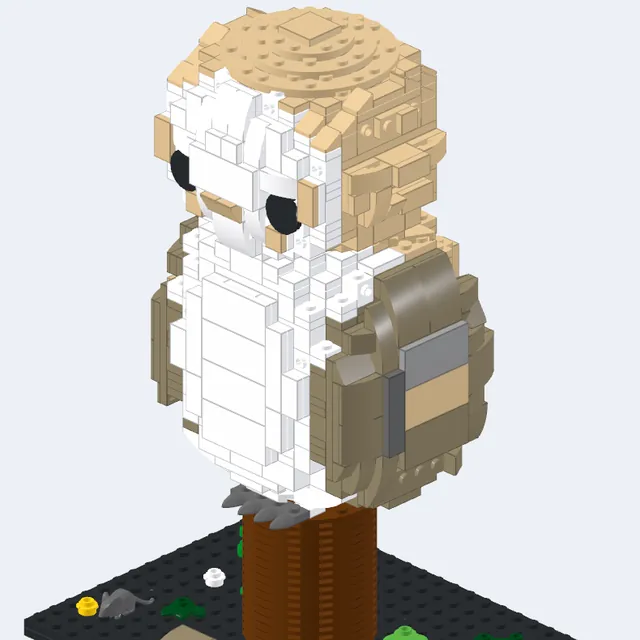
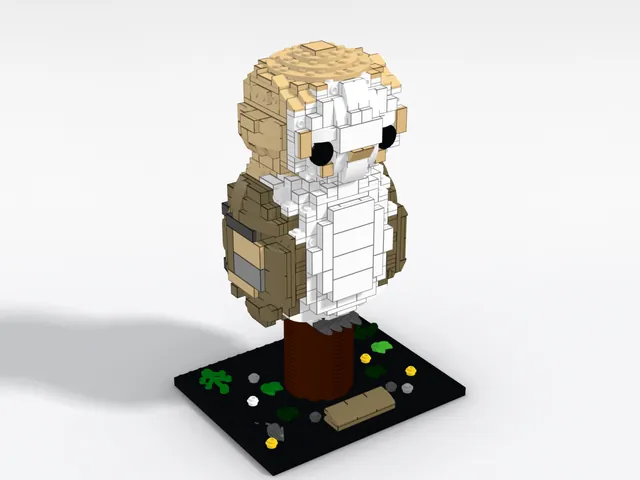
The gallery shows Claude's car, and the whole owl
The owner asked for the car, and every shot of it had the axis rulers
drawn across the body. The car and the owl Claude designed are now
studio renders made with the app's own renderer, so the owl keeps its
base too.

The checks also skip Vercel's preview toolbar. It is injected only for a
browser that does not say it is headless, its script is refused by the
site's policy, and it is never on the real site. The download check failed
on a preview for that alone, and it can now get past preview protection.

diff --git a/web/index.html b/web/index.html
@@ -251,13 +251,20 @@ td.off { color: var(--ink-faint); }
 			</figure>
 			<figure class="shot">
 				<div class="frame"><img src="/img/owl-640.webp"
-					srcset="/img/owl-640.webp 640w, /img/owl-1200.webp 790w"
+					srcset="/img/owl-640.webp 640w, /img/owl-1200.webp 1200w"
 					sizes="(min-width: 1180px) 370px, (min-width: 560px) 50vw, 100vw"
-					width="790" height="790" loading="lazy" decoding="async"
-					alt="A barn owl built from LEGO bricks, with a white face and chest, large black eyes, a tan head and dark tan wings, perched on a round brown log on a black baseplate scattered with leaves, small flowers and a grey mouse."></div>
-				<figcaption><b>A barn owl</b>Designed by Claude: a sculpted face, folded wings and a log to perch on.</figcaption>
+					width="1200" height="900" loading="lazy" decoding="async"
+					alt="A studio render of a barn owl built from LEGO bricks: a white face with large black eyes, a tan head, dark tan folded wings and a white chest, perched on a brown log on a small black base scattered with leaves, flowers and a grey mouse."></div>
+				<figcaption><b>A barn owl</b>Designed by Claude from one line: a sculpted face, folded wings and a log to perch on.</figcaption>
 			</figure>
-			<!--car-->
+			<figure class="shot">
+				<div class="frame"><img src="/img/car-640.webp"
+					srcset="/img/car-640.webp 640w, /img/car-1200.webp 1200w"
+					sizes="(min-width: 1180px) 370px, (min-width: 560px) 50vw, 100vw"
+					width="1200" height="900" loading="lazy" decoding="async"
+					alt="A studio render of a red LEGO sports car with white racing stripes, a black rear wing and grey wheels, its driver in a red helmet beside it holding a gold trophy, and a black and red Formula sign on the ground in front."></div>
+				<figcaption><b>A sports car, and its driver</b>Designed by Claude from one line, then drawn with File, Render…</figcaption>
+			</figure>
 			<figure class="shot">
 				<div class="frame"><img src="/img/galaxy-640.webp"
 					srcset="/img/galaxy-640.webp 640w, /img/galaxy-1200.webp 912w"
